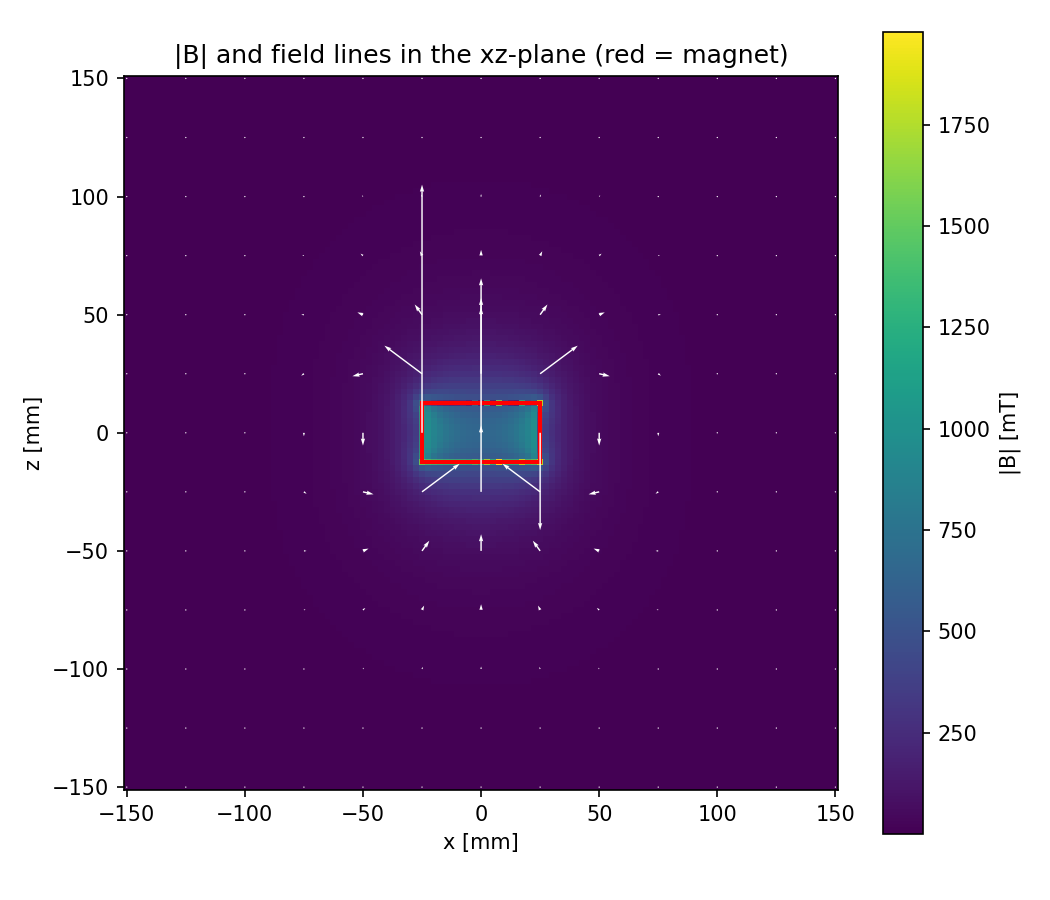
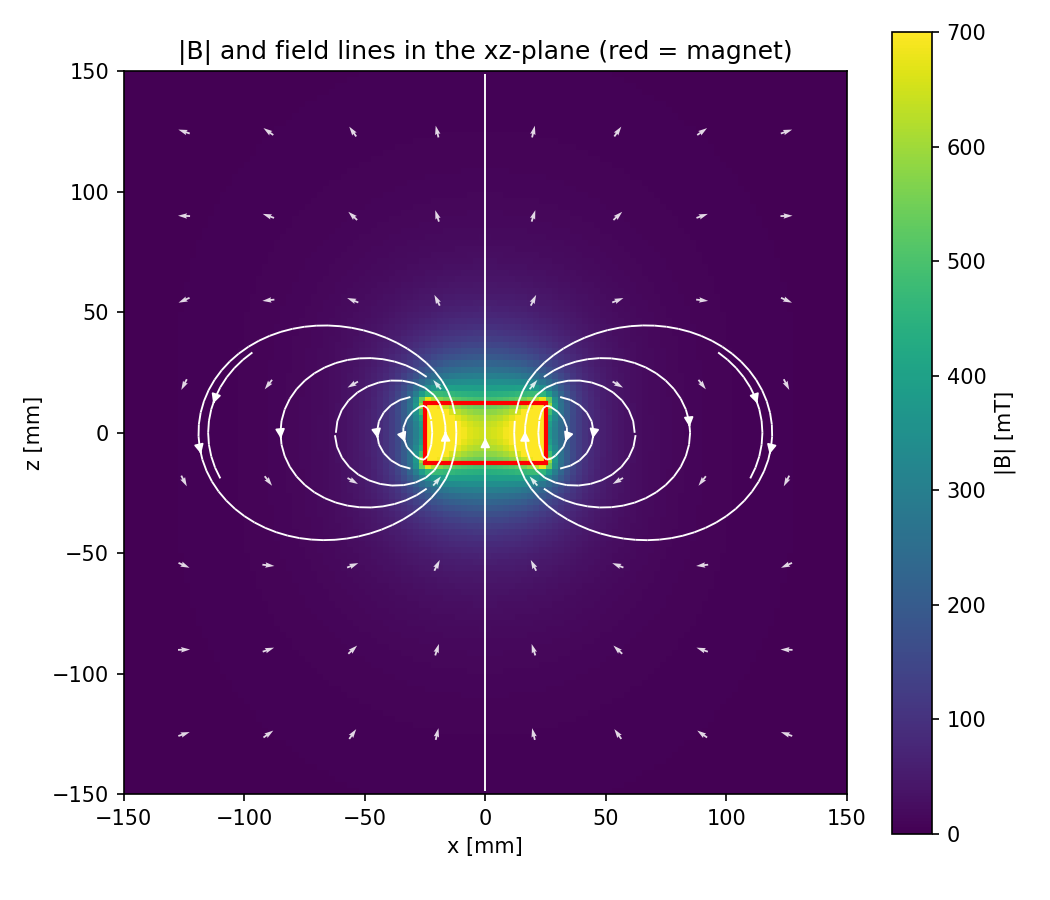
Fix field visualization: symmetric closed field lines, uniform arrows, contrast scale
- cell-centered sampling grid: no point lands on the magnet surfaces or cap
  edge, where the field is discontinuous (mu0*M jump) / singular and the
  charged-caps quadrature is invalid (was the source of the asymmetric
  garbage arrows up to ~2 T)
- field lines via streamplot with symmetric start_points on the equator
  (mm data units) + axial seed: continuous, closed, strictly symmetric loops
- direction arrows normalized to fixed length (pivot='middle', scale_units='xy'):
  direction only, magnitude is the background color
- color scale capped at 700 mT (physical max) to restore contrast
- gradient map uses the same cell-centered grid
- plot quadrature raised to 64x128 for publication figures
- symmetry sanity check excluding the singular edge band (model itself is
  symmetric to 1e-10 outside it; 18 field tests pass)

diff --git a/src/magnetic_field_model/scripts/plot_field.py b/src/magnetic_field_model/scripts/plot_field.py
@@ -31,27 +31,71 @@ REMANENCE = 1.45  # T, N52
 
 
 def plot_field_map(magnet, outdir):
-    """|B| heatmap + field arrows in the xz-plane through the magnet axis."""
-    xs = np.linspace(-0.15, 0.15, 121)
-    zs = np.linspace(-0.15, 0.15, 121)
-    X, Z = np.meshgrid(xs, zs)
+    """|B| heatmap + field lines + direction arrows in the xz-plane.
+
+    The sampling grid is cell-centered so that NO point lands exactly on the
+    magnet surfaces (x = +-R, z = +-L/2) or its cap edge, where the field is
+    discontinuous / singular and the surface-charge quadrature is invalid.
+    """
+    n = 120
+    half = 0.15
+    cell = 2 * half / n
+    xs = -half + (np.arange(n) + 0.5) * cell       # 2.5 mm cells, offset
+    X, Z = np.meshgrid(xs, xs)
     pts = np.column_stack([X.ravel(), np.zeros(X.size), Z.ravel()])
     B = magnet.field(pts)
     mag = np.linalg.norm(B, axis=1).reshape(X.shape) * 1e3  # mT
 
+    # physics sanity: the magnitude map must be symmetric in x and z.
+    # Points within 5 mm of the magnet boundary are excluded: the field is
+    # physically singular at the cap edge and the quadrature noise there is
+    # not a symmetry violation of the model.
+    dx = np.maximum(np.abs(X) - RADIUS, 0.0)
+    dz = np.maximum(np.abs(Z) - LENGTH / 2, 0.0)
+    far = np.hypot(dx, dz) > 5e-3
+    if (np.abs(mag - mag[:, ::-1])[far].max() > 1e-6 * mag.max() or
+            np.abs(mag - mag[::-1, :])[far].max() > 1e-6 * mag.max()):
+        print('WARNING: |B| grid is not symmetric -- check the field model')
+
     fig, ax = plt.subplots(figsize=(7, 6))
-    im = ax.pcolormesh(X * 1e3, Z * 1e3, mag, shading='auto', cmap='viridis')
+    # vmax = 700 mT: the physical maximum (|B| ~ 650-725 mT inside/at the
+    # pole faces); values near the cap-edge singularity would otherwise
+    # stretch the scale and flatten the contrast.
+    im = ax.pcolormesh(X * 1e3, Z * 1e3, mag, shading='auto', cmap='viridis',
+                       vmin=0.0, vmax=700.0)
     fig.colorbar(im, ax=ax, label='|B| [mT]')
     # magnet cross-section outline
     ax.add_patch(plt.Rectangle((-RADIUS * 1e3, -LENGTH / 2 * 1e3),
                                2 * RADIUS * 1e3, LENGTH * 1e3,
                                fill=False, edgecolor='r', linewidth=2))
-    # field arrows
-    step = 10
-    Bx = B[:, 0].reshape(X.shape)[::step, ::step] * 1e3
-    Bz = B[:, 2].reshape(X.shape)[::step, ::step] * 1e3
-    ax.quiver(X[::step, ::step] * 1e3, Z[::step, ::step] * 1e3, Bx, Bz,
-              color='w', scale=3000, width=0.002)
+
+    # field lines: every loop crosses the equator z = 0, so symmetric seeds
+    # there produce continuous, closed, strictly symmetric field lines.
+    # NOTE: start_points are in data coordinates (mm here, like the grid).
+    seed_x = np.array([12., 22., 32., 45., 62., 85., 115.])
+    start = np.array([[sx, 0.0] for sx in seed_x] +
+                     [[-sx, 0.0] for sx in seed_x] +
+                     [[0.0, 50.0]])                # axial line
+    ax.streamplot(xs * 1e3, xs * 1e3, B[:, 0].reshape(X.shape),
+                  B[:, 2].reshape(X.shape), color='w', linewidth=0.9,
+                  density=2.0, arrowsize=0.9, start_points=start)
+
+    # direction arrows: fixed length, direction only (the magnitude is the
+    # background color), on a sparse symmetric grid
+    aq = np.array([-125., -90., -55., -20., 20., 55., 90., 125.]) / 1e3
+    XQ, ZQ = np.meshgrid(aq, aq)
+    BQ = magnet.field(np.column_stack([XQ.ravel(), np.zeros(XQ.size),
+                                       ZQ.ravel()]))
+    U = BQ[:, 0].reshape(XQ.shape)
+    V = BQ[:, 2].reshape(XQ.shape)
+    nrm = np.hypot(U, V)
+    nrm[nrm < 1e-12] = 1.0
+    ax.quiver(XQ * 1e3, ZQ * 1e3, U / nrm, V / nrm, color='w',
+              pivot='middle', angles='xy', scale_units='xy', scale=0.2,
+              width=0.0025, alpha=0.85)
+
+    ax.set_xlim(-half * 1e3, half * 1e3)
+    ax.set_ylim(-half * 1e3, half * 1e3)
     ax.set_xlabel('x [mm]')
     ax.set_ylabel('z [mm]')
     ax.set_title('|B| and field lines in the xz-plane (red = magnet)')
@@ -97,16 +141,31 @@ def plot_on_axis(magnet, outdir):
 
 
 def plot_gradient_map(magnet, outdir):
-    """|grad B| (Frobenius norm of the Jacobian) in the xz-plane."""
-    xs = np.linspace(-0.12, 0.12, 121)
-    zs = np.linspace(-0.12, 0.12, 121)
-    X, Z = np.meshgrid(xs, zs)
+    """|grad B| (Frobenius norm of the Jacobian) in the xz-plane.
+
+    Same cell-centered grid as plot_field_map: no sample point lands on the
+    magnet surfaces or cap edge, where the gradient is singular.
+    """
+    n = 120
+    half = 0.12
+    cell = 2 * half / n
+    xs = -half + (np.arange(n) + 0.5) * cell       # 2 mm cells, offset
+    X, Z = np.meshgrid(xs, xs)
     pts = np.column_stack([X.ravel(), np.zeros(X.size), Z.ravel()])
     J = magnet.gradient(pts)
     gnorm = np.linalg.norm(J, axis=(1, 2)).reshape(X.shape)  # T/m
 
+    # physics sanity: the gradient map must be symmetric in x and z
+    # (excluding the 5 mm band around the singular cap edge, see above)
+    dx = np.maximum(np.abs(X) - RADIUS, 0.0)
+    dz = np.maximum(np.abs(Z) - LENGTH / 2, 0.0)
+    far = np.hypot(dx, dz) > 5e-3
+    if (np.abs(gnorm - gnorm[:, ::-1])[far].max() > 1e-6 * gnorm.max() or
+            np.abs(gnorm - gnorm[::-1, :])[far].max() > 1e-6 * gnorm.max()):
+        print('WARNING: |grad B| grid is not symmetric -- check the field model')
+
     fig, ax = plt.subplots(figsize=(7, 6))
-    gplot = np.where(gnorm > 1e-3, gnorm, 1e-3)  # floor for log scale
+    gplot = np.clip(gnorm, 1e-2, 1e3)  # log-scale range
     im = ax.pcolormesh(X * 1e3, Z * 1e3, gplot, shading='auto', cmap='magma',
                        norm=matplotlib.colors.LogNorm(vmin=1e-2, vmax=1e3))
     fig.colorbar(im, ax=ax, label='|grad B| [T/m] (log scale)')
@@ -132,7 +191,8 @@ def main():
     os.makedirs(args.outdir, exist_ok=True)
 
     magnet = CylinderMagnet(radius=RADIUS, length=LENGTH,
-                            remanence=REMANENCE)
+                            remanence=REMANENCE,
+                            n_radial=64, n_azimuth=128)
 
     print(f'magnet: D{2*RADIUS*1e3:.0f}x{LENGTH*1e3:.0f} mm, '
           f'Br = {REMANENCE} T')
